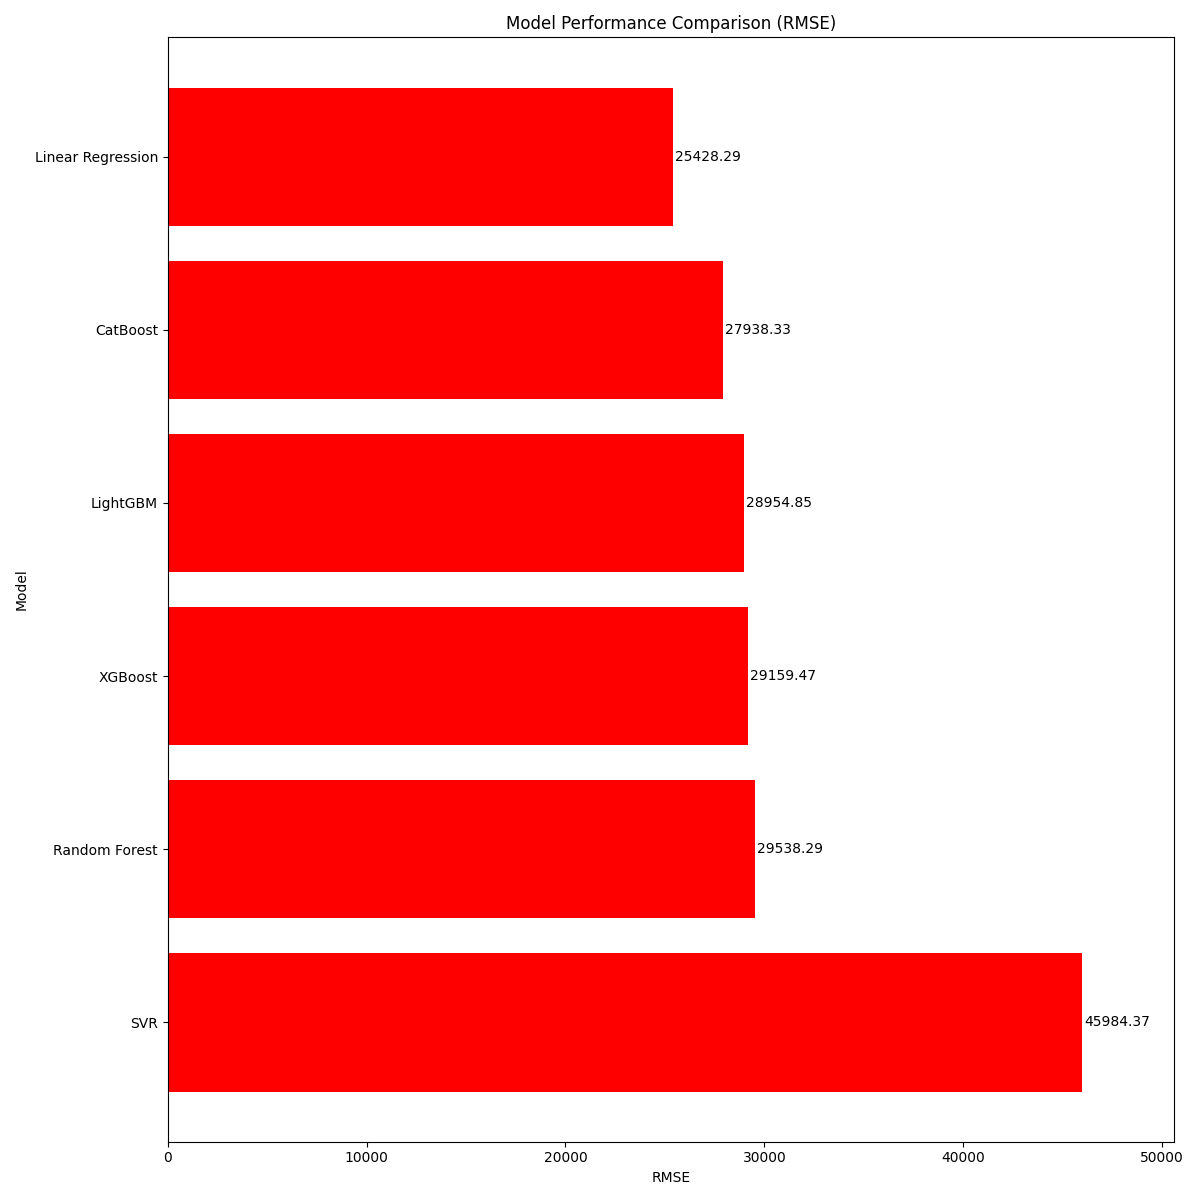
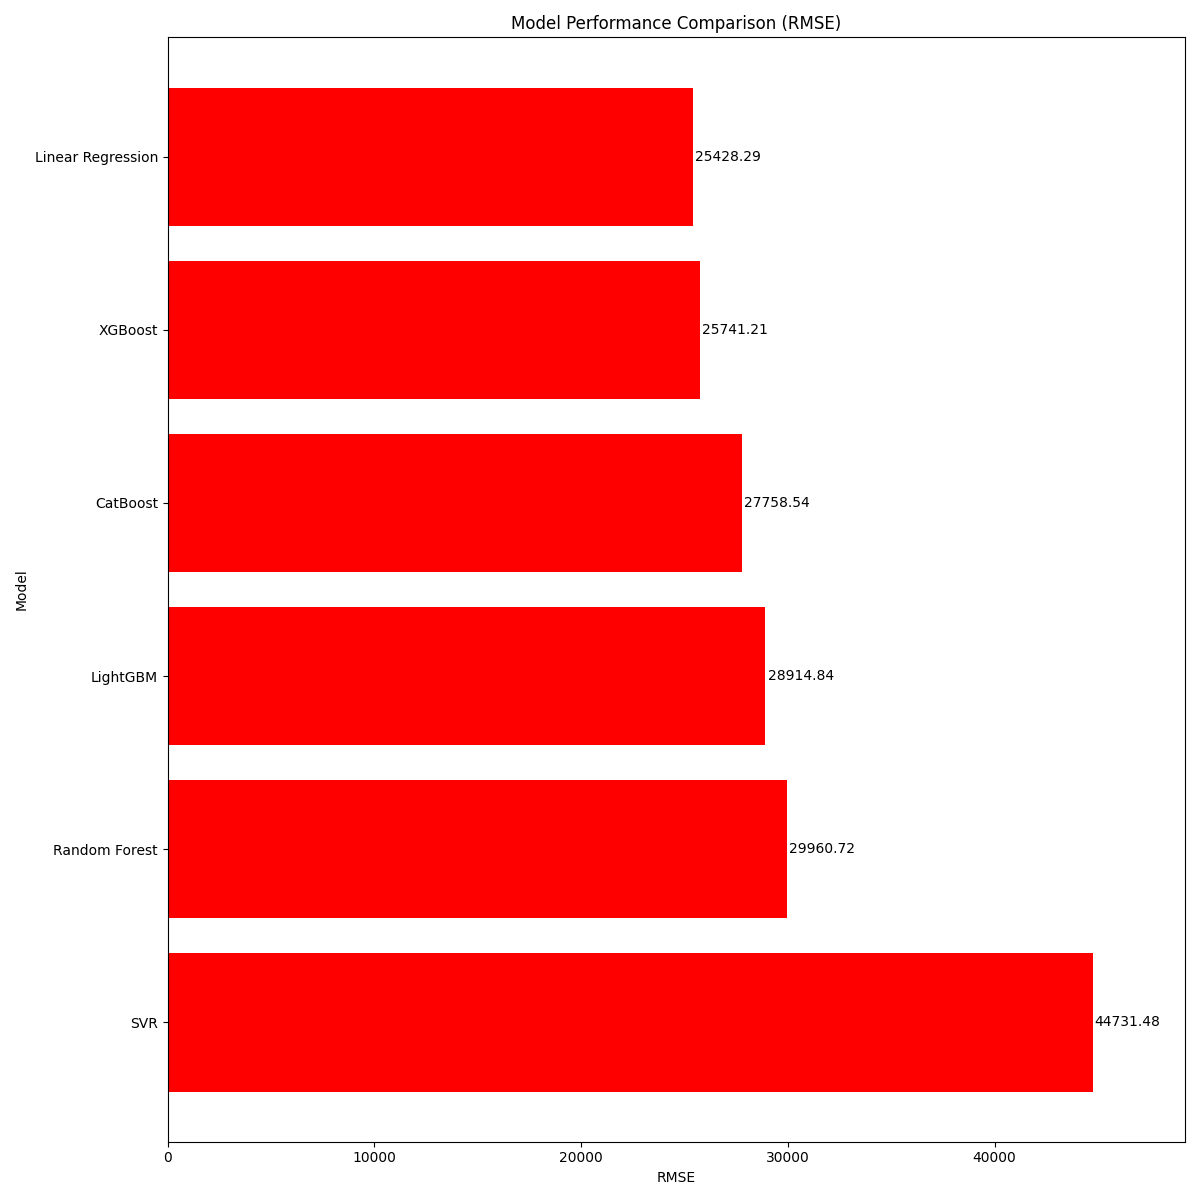
update model performance metrics and hps

diff --git a/PriceFinder.py b/PriceFinder.py
@@ -42,7 +42,7 @@ def engineer_features(train_df, test_df):
     num_cols = num_cols[num_cols > 0].index
     for col in num_cols:
         median_value = train_df[col].median()  #NOT FULL BC DATA LEAKAGE
-        combined_df[col].fillna(median_value, inplace=True)
+        combined_df[col] = combined_df[col].fillna(median_value)
     print(f"Imputed {len(num_cols)} numerical columns with their median.")
     
     #fill nans with mode
@@ -50,7 +50,7 @@ def engineer_features(train_df, test_df):
     cat_cols = cat_cols[cat_cols > 0].index
     for col in cat_cols:
         mode_value = train_df[col].mode()[0] #NOT FULL BC DATA LEAKAGE
-        combined_df[col].fillna(mode_value, inplace=True)
+        combined_df[col] = combined_df[col].fillna(mode_value)
     print(f"Imputed {len(cat_cols)} categorical columns with their mode.")
 
     combined_df['MSSubClass'] = combined_df['MSSubClass'].astype(str)
@@ -247,36 +247,37 @@ if __name__ == "__main__":
     }
 
     parameters = {
-        "Random Forest": {
-            'n_estimators': [100, 200],
-            'max_depth': [None, 10, 20],
-            'min_samples_split': [2, 5],
-            'min_samples_leaf': [1, 2, 4]
-        },
-        "XGBoost": {
-            'n_estimators': [100, 200],
-            'learning_rate': [0.01, 0.05, 0.1],
-            'max_depth': [3, 6, 8],
-            'subsample': [0.6, 0.9],
-            'colsample_bytree': [0.6, 0.9]
-        },
-        "LightGBM": {
-            'n_estimators': [100, 200, 400],
-            'learning_rate': [0.01, 0.05, 0.1],
-            'num_leaves': [20, 30, 55],
-            'boosting_type': ['gbdt', 'dart']
-        },
-        "CatBoost": {
-            'iterations': [100, 200, 400],
-            'learning_rate': [0.01, 0.05, 0.1],
-            'depth': [4, 6, 10],
-            'l2_leaf_reg': [3, 5, 7]
-        },
-        "SVR": {
-            'C': [0.1, 1, 10, 100],
-            'gamma': ['scale', 'auto', 0.01, 0.1],
-            'epsilon': [0.05, 0.1, 0.2]
-        }
+    "Random Forest": {
+        'n_estimators': [400, 500, 700],
+        'max_depth': [2, 10, None],
+        'min_samples_split': [2, 3, 5],
+        'min_samples_leaf': [2, 3, 5] 
+    },
+    "XGBoost": {
+        'n_estimators': [400, 600, 800, 1000],
+        'learning_rate': [0.01, 0.03, 0.04],
+        'max_depth': [2, 3, 4], 
+        'subsample': [0.5, 0.6, 0.7], 
+        'colsample_bytree': [0.3, 0.5, 0.6] 
+    },
+    "LightGBM": {
+        'n_estimators': [600, 800, 1000],
+        'learning_rate': [0.03, 0.05, 0.07],
+        'num_leaves': [15, 20, 25], 
+        'boosting_type': ['gbdt'] 
+    },
+    "CatBoost": {
+        'iterations': [500, 600, 700],
+        'learning_rate': [0.05, .08, 0.1], 
+        'depth': [4, 5, 7, 10], 
+        'l2_leaf_reg': [0.3, 0.6, 1, 2] 
+    },
+    "SVR": {
+        'kernel': ['rbf', 'poly'],
+        'C': [8, 10, 12],
+        'gamma': ['auto'],
+        'epsilon': [0.02, 0.03, 0.05] 
+    }
     }
 
     best_rmse = float('inf')  #using rmse to evaluate
@@ -304,8 +305,21 @@ if __name__ == "__main__":
         trained_models[name] = best_model_instance
         val_preds_log = best_model_instance.predict(X_val_scaled)
         val_preds = inv_boxcox(val_preds_log, lambda_param)
-        rmse = np.sqrt(mean_squared_error(y_val, val_preds))
-        model_performance[name] = rmse
+        
+        mse = mean_squared_error(y_val, val_preds)
+        rmse = np.sqrt(mse)
+        mae = mean_absolute_error(y_val, val_preds)
+        r2 = r2_score(y_val, val_preds)
+        mape = mean_absolute_percentage_error(y_val, val_preds)
+
+        model_performance[name] = {
+            'RMSE': rmse,
+            'MAE': mae,
+            'MSE': mse,
+            'MAPE': mape,
+            'R2': r2
+        }
+
         print(f"{name} Validation RMSE: {rmse:.2f}")
 
         if rmse < best_rmse:
@@ -313,10 +327,10 @@ if __name__ == "__main__":
             best_model_name = name
             best_model = best_model_instance
         
-    sorted_performance = sorted(model_performance.items(), key=lambda item: item[1])
+    sorted_performance = sorted(model_performance.items(), key=lambda item: item[1]['RMSE'])
     for model_name, performance in sorted_performance:
-        print(f"{model_name}: RMSE = {performance:.2f}")
-    
+        print(f"{model_name}: RMSE = {performance['RMSE']:.2f}")
+
     print(f"\nBest model: {best_model_name} with RMSE: {best_rmse:.2f}")
 
     final_preds_log = best_model.predict(X_submission_scaled)
@@ -328,6 +342,10 @@ if __name__ == "__main__":
         report_data.append({
             'Model': model_name,
             'RMSE': f'{rmse:.2f}',
+            'MAE': f'{performance['MAE']:.2f}',
+            'MSE': f'{performance['MSE']:.2f}',
+            'MAPE': f'{performance['MAPE']:.2f}',
+            'R2': f'{performance['R2']:.2f}',
             'Best Parameters': str(params)
         })
     report_df = pd.DataFrame(report_data)
